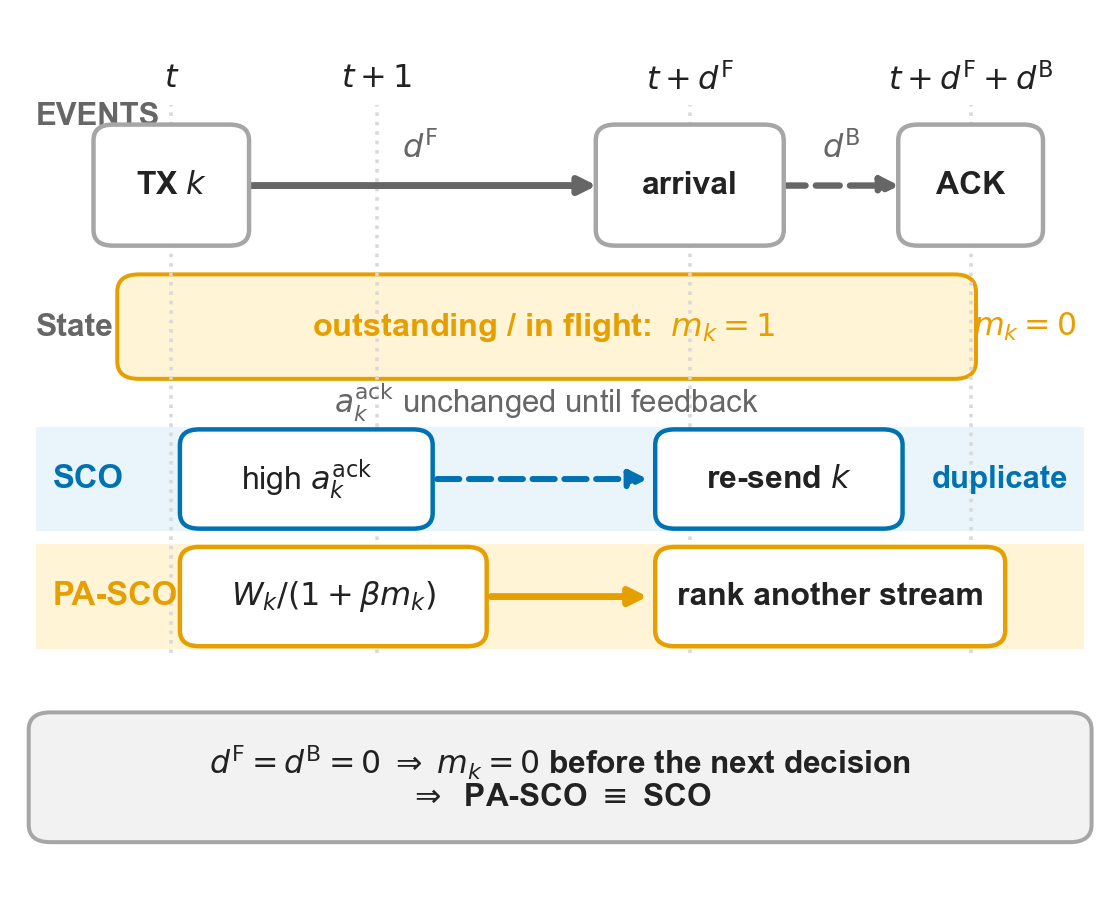
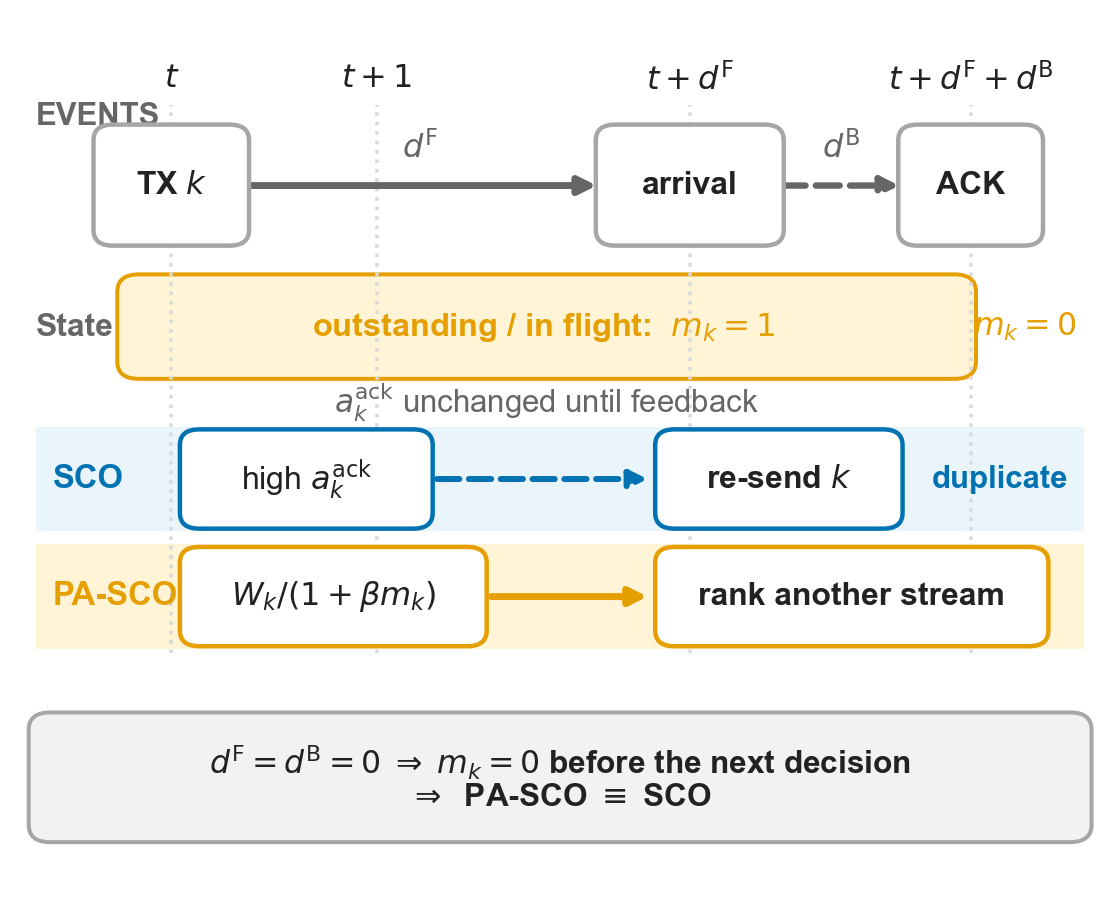
Harden timeline label spacing on Linux

Changed region(s): [[0.611, 0.5898, 0.947, 0.745]]

diff --git a/figures/make_timeline.py b/figures/make_timeline.py
@@ -203,7 +203,7 @@ def main() -> None:
     plt.rcParams.update(
         {
             "font.family": "sans-serif",
-            "font.sans-serif": ["Arial", "DejaVu Sans"],
+            "font.sans-serif": ["Arial", "Liberation Sans", "DejaVu Sans"],
             "font.size": 7.2,
             "axes.linewidth": 0.8,
             "pdf.fonttype": 42,
@@ -285,7 +285,7 @@ def main() -> None:
     add_box(ax, tracked, 0.160, 0.285, 0.260, 0.090,
             r"$W_k/(1+\beta m_k)$", ORANGE, "#FFFFFF")
     add_arrow(ax, (0.432, 0.330), (0.585, 0.330), ORANGE, linewidth=1.55)
-    add_box(ax, tracked, 0.600, 0.285, 0.300, 0.090,
+    add_box(ax, tracked, 0.600, 0.285, 0.340, 0.090,
             "rank another stream", ORANGE, "#FFFFFF", weight="bold")
 
     # Exact boundary: no unresolved state survives to the next decision.

diff --git a/CHANGELOG.md b/CHANGELOG.md
@@ -5,7 +5,7 @@
 - aligned the capacity--delay figure, metadata, and documentation with the
   manuscript's delay-unaware immediate-reset reference terminology;
 - expanded the capacity--delay legend to the formal method names;
-- hardened Figure 1 node padding and the Linux font fallback for identical
+- hardened schematic node padding and Linux font fallbacks for consistent
   publication QA across local and GitHub Actions renderers;
 - refreshed the frozen manifest, release verification, and distributable
   archive after the final manuscript consistency audit.
